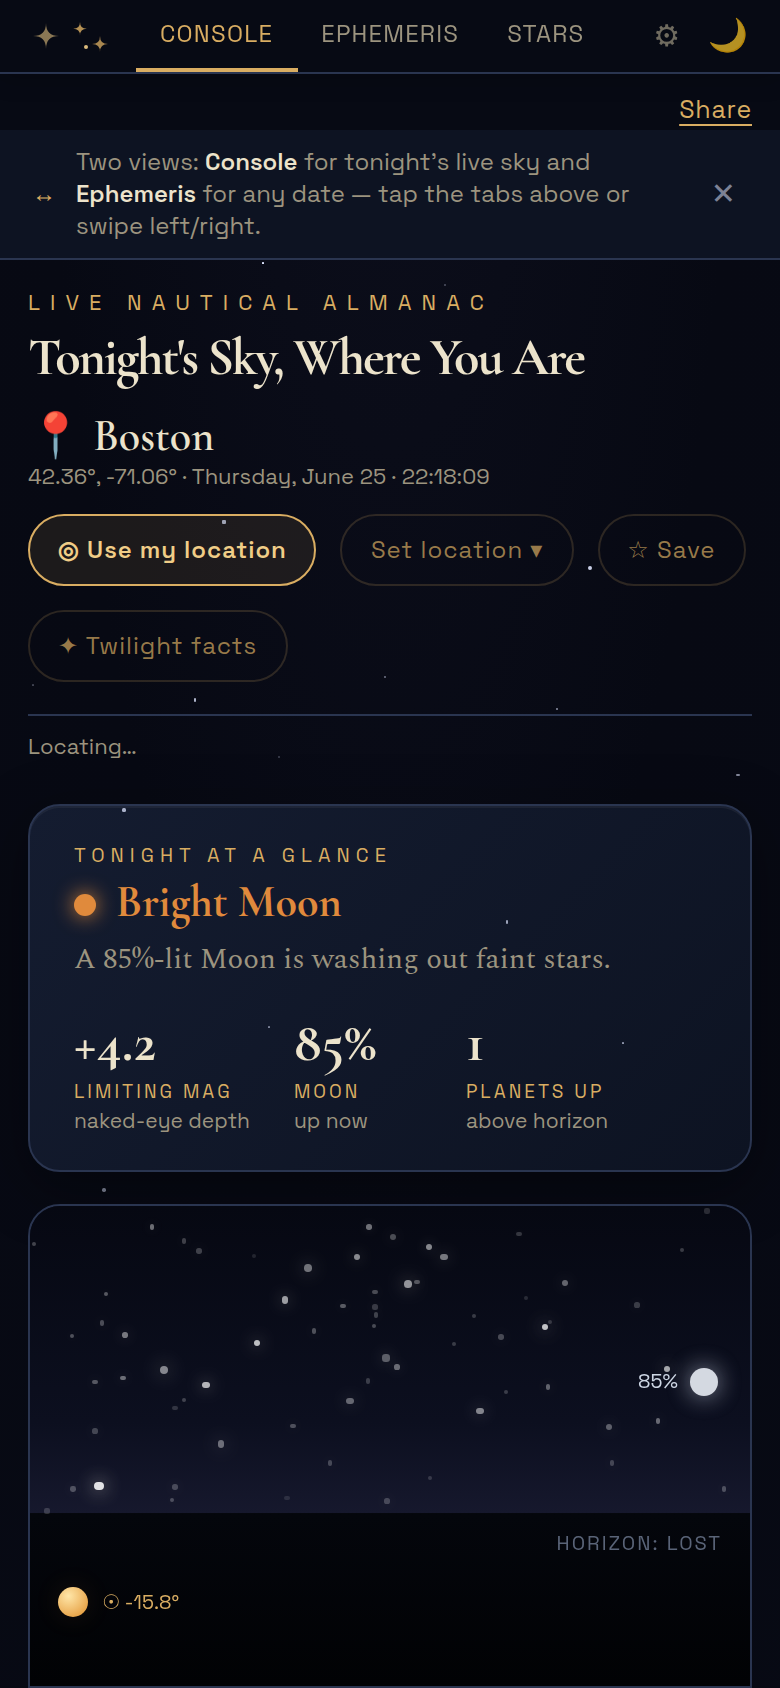
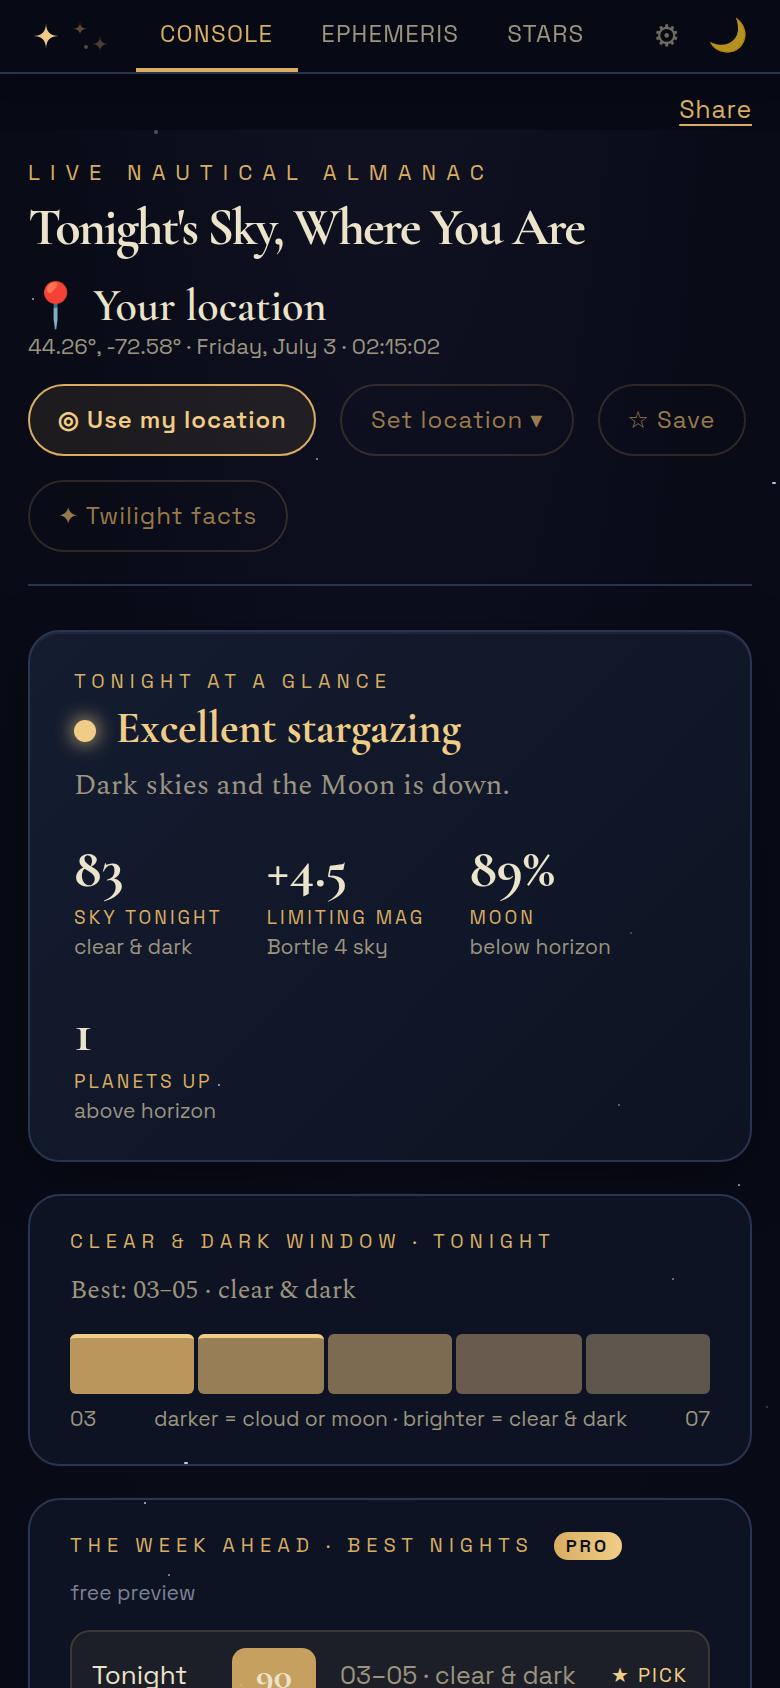
Refresh PWA install screenshots to show current features (#36)
* Apply review fixes; show degrees on Civil twilight legend

Code-review fixes:
- searchPlaces: add a request-sequence guard so out-of-order geocoding
  responses can't render stale results.
- Clear results/query/message when the location picker is closed (no
  stale list on reopen).
- Remove dead tzFromLonState (only caller was the old ZIP lookup).
- Drop the now-unused onEphemeris prop from RealtimeTwilight.

Console legend: the Civil twilight box now shows its range like the
others — "Civil 0° to −6° (Golden Hour)". Bump SW to v28.

Claude-Session: https://claude.ai/code/session_017fcYpjo3ZFs8QJ4sChYVeG

* Star Finder: use a steady dark background (no live-sky glow)

The Stars tab has little content, so the time-varying dusk glow showed
across most of the page and read as washed out. Pin its background to
the static dark gradient (Console/Ephemeris keep the dusk glow). Bump
SW to v29.

Claude-Session: https://claude.ai/code/session_017fcYpjo3ZFs8QJ4sChYVeG

* Polish (Tier 1): attribution/privacy footer, SEO files, JSON-LD

- Add a global footer crediting the data sources (NOAA / Schlyter sun &
  moon models, Open-Meteo + GeoNames geocoding under CC BY 4.0) and a
  plain privacy note ("no tracking — only an anonymous visit count").
  Satisfies the CC-BY attribution requirement for the place search.
- Add robots.txt and sitemap.xml, and a JSON-LD WebApplication block in
  the head for richer search/SEO (non-executable data block — no CSP hash
[…]

diff --git a/sw.js b/sw.js
@@ -1,4 +1,4 @@
-const CACHE = 'twilight-v36';
+const CACHE = 'twilight-v37';
 const ASSETS = [
   '/',
   '/index.html',
